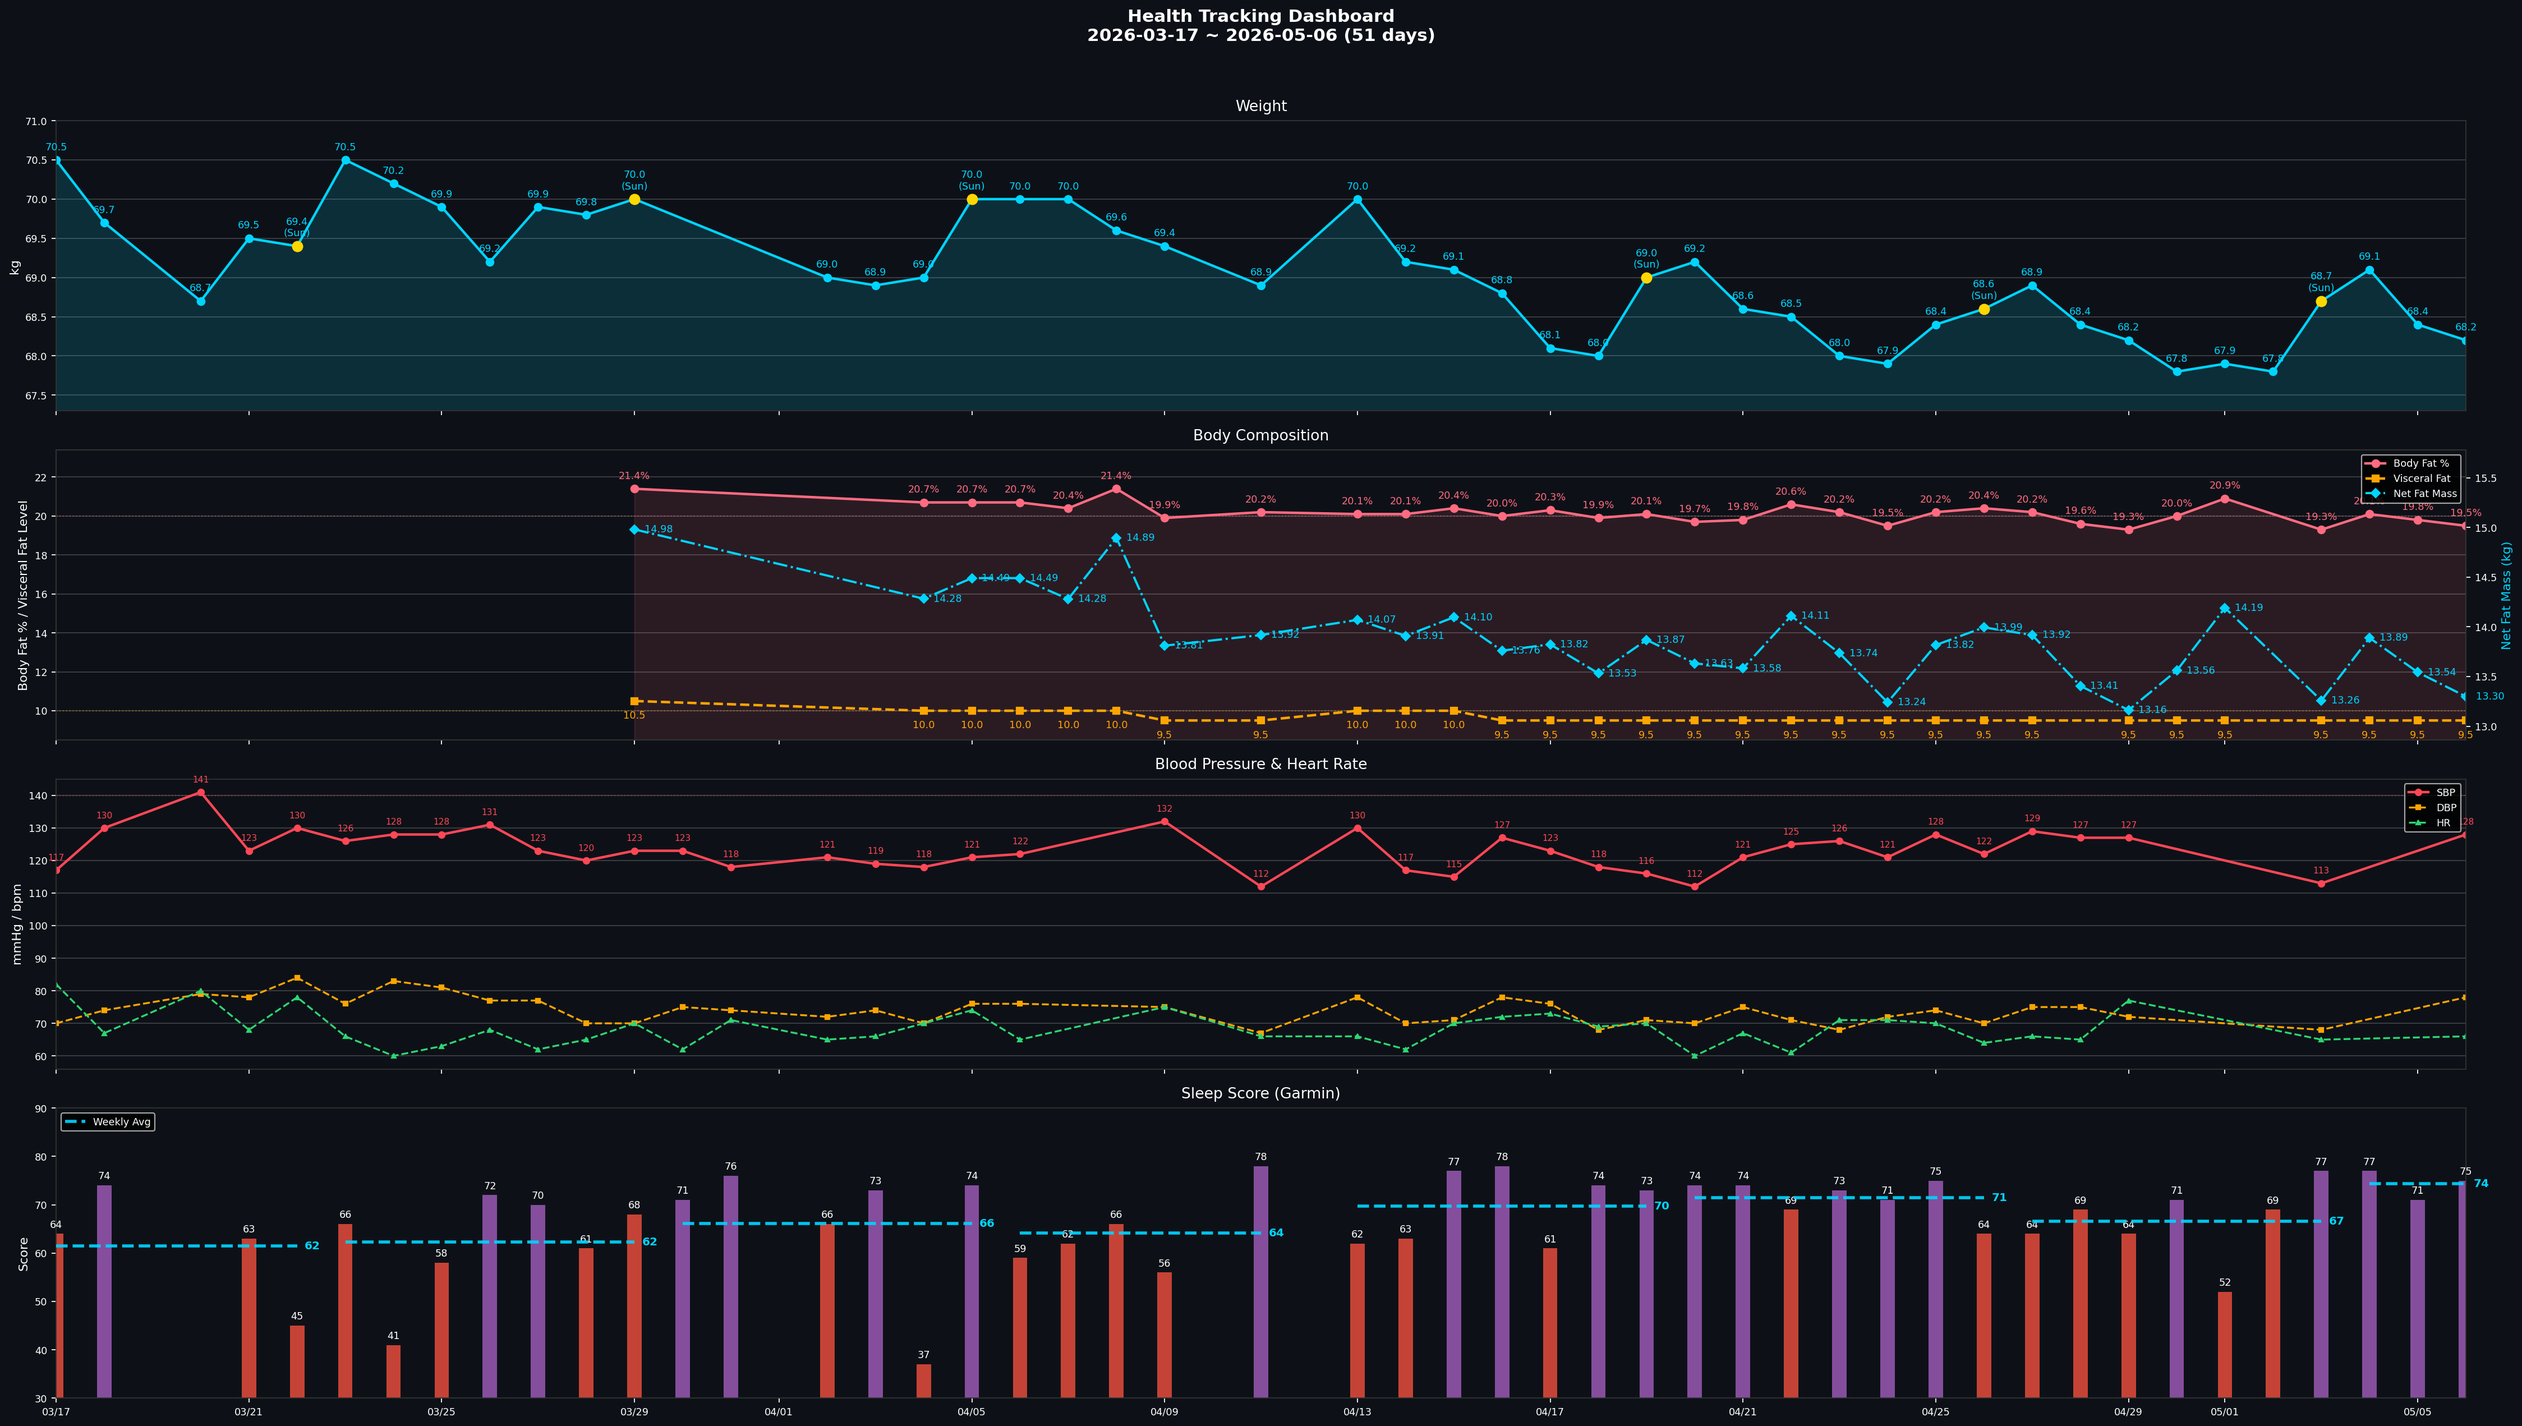
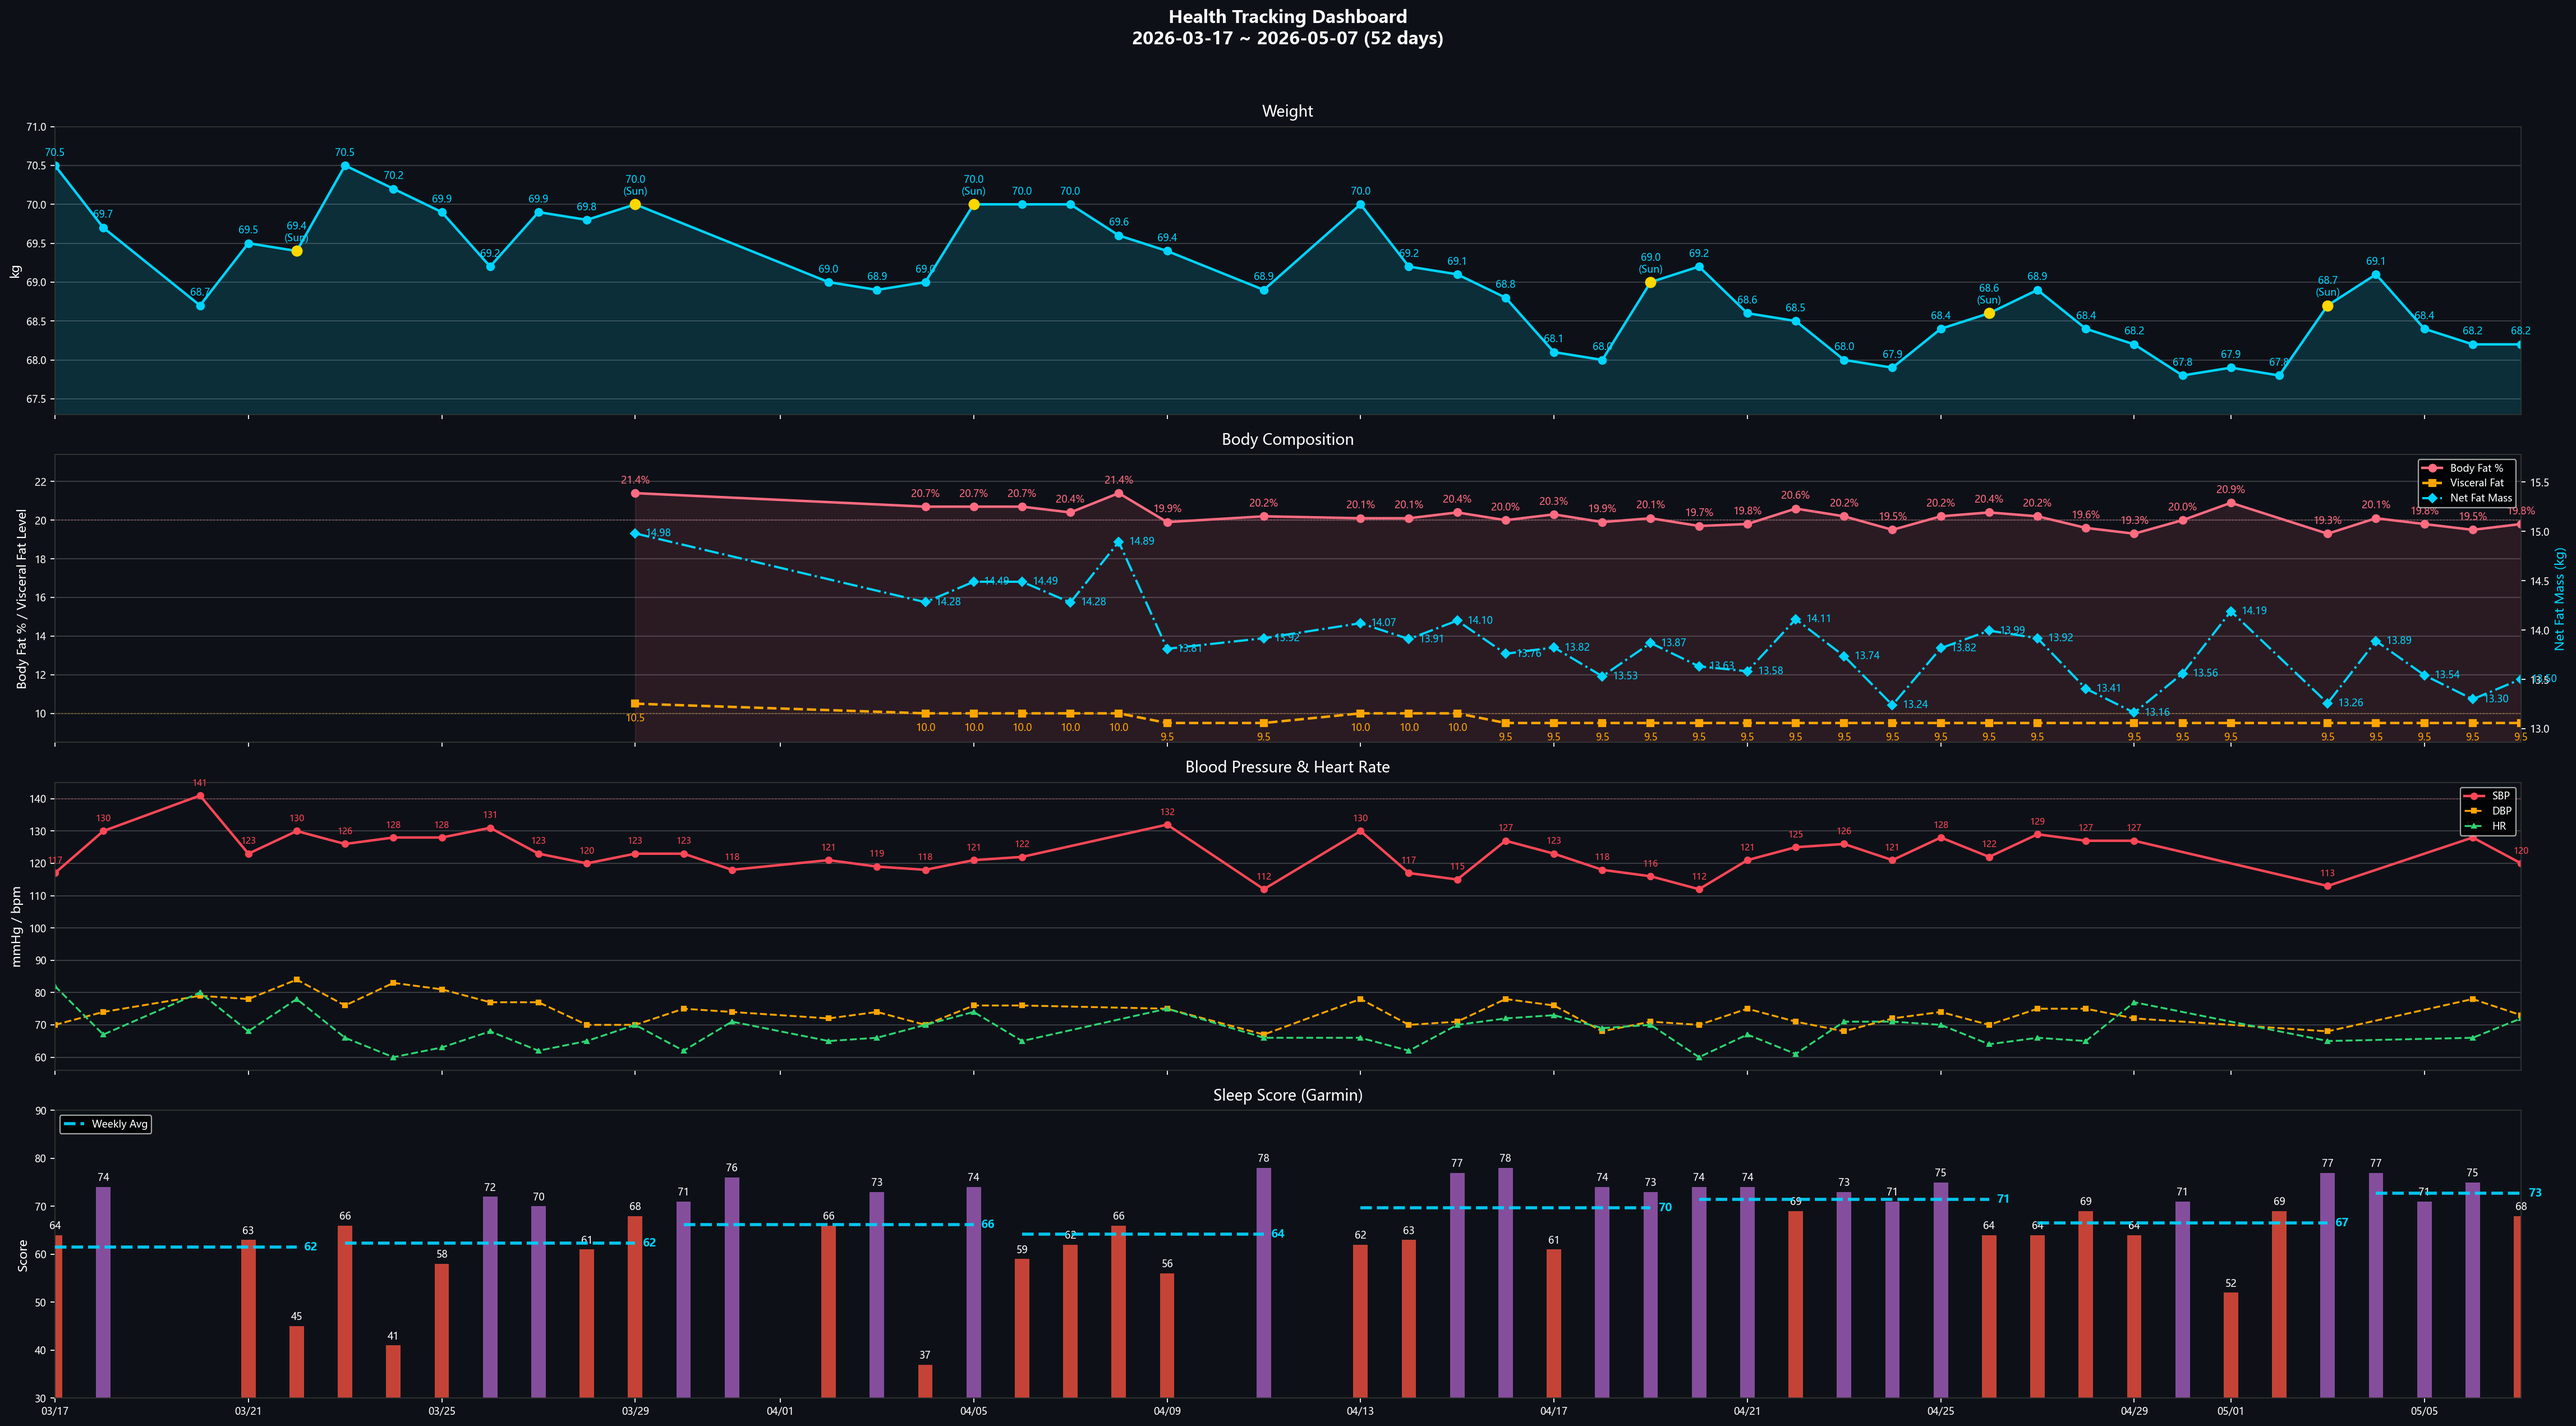
daily 2026-05-07：BP 120/73 / Sleep Score 68 / SpO2 nadir 79%（近 7 晚最低）
- 體重 68.2 kg（同昨）/ 體脂 19.8% / 內臟脂肪 9.5
- 睡眠 5h35m（23:04-04:50）/ 中途醒 0 / 主觀 3
- SpO2 7 晚連續 < 88%（17/17 晚 100%），今晨 T90 2.9% 屬「肺功能類」非 POSA 重度
- POSA Night 3：T90 4.9→2.9% 續降至「強烈 POSA」深區，nadir 79% 為單點 3 分非累積負擔
- 身體信號：左肩 3/10 連 2 天輕度（→ 觀察）
- 昨日飲水 2.85L 達標
- daily-command.md：補上系統時鐘 +8hr 校正規則

diff --git a/data.js b/data.js
@@ -9,8 +9,8 @@ window.HC_DATA = {
     lede:    { en: "Sleep, BP, lipids, uric acid — one shared metabolic root. Lifestyle stacks first; medication only after lifestyle plateaus.",
                zh: "睡眠、血壓、血脂、尿酸——共享同一個代謝根源。生活方式介入優先，等到效果平台期再考慮藥物。" },
     progressLbl: { en: "Weight progress · 70 → 65 kg", zh: "體重進度 · 70 → 65 公斤" },
-    progressMeta: { en: "Day 51 · 67.8 kg · Sat official (5/2)", zh: "第 51 天 · 67.8 公斤 · 週六正式（5/2）" },
-    startDate: { en: "Start date · Mar 17, 2026 · Last sync 5/6", zh: "起始日期 · 2026 年 3 月 17 日 · 最後同步 5/6" },
+    progressMeta: { en: "Day 52 · 67.8 kg · Sat official (5/2)", zh: "第 52 天 · 67.8 公斤 · 週六正式（5/2）" },
+    startDate: { en: "Start date · Mar 17, 2026 · Last sync 5/7", zh: "起始日期 · 2026 年 3 月 17 日 · 最後同步 5/7" },
     startWeight: 70,
     targetWeight: 65,
     currentWeight: 67.8,
@@ -21,13 +21,13 @@ window.HC_DATA = {
     {
       sys: "heart", name: { en: "Blood Pressure", zh: "血壓" },
       val: "124/72", unit: "mmHg",
-      delta: { en: "W18 weekly avg (4 days) · target met (<130) · last 128/78 (5/6)", zh: "W18 週均（4 天）· 已達標 (<130) · 最新 128/78 (5/6)" },
+      delta: { en: "W18 weekly avg (4 days) · target met (<130) · last 120/73 (5/7)", zh: "W18 週均（4 天）· 已達標 (<130) · 最新 120/73 (5/7)" },
       cadence: { en: "Daily · weekly avg", zh: "每日 · 週均" },
       status: "ok",
     },
     {
       sys: "sleep", name: { en: "Sleep Score", zh: "睡眠分數" },
-      val: "75", unit: "Garmin",
+      val: "68", unit: "Garmin",
       delta: { en: "5/4 · OSA flag: T90 18.4% (severe)", zh: "5/4 · OSA 紅旗：T90 18.4%（重度）" },
       cadence: { en: "Daily · Garmin", zh: "每日 · Garmin" },
       status: "warn",
@@ -820,14 +820,14 @@ window.HC_DATA = {
   tracker: {
     // [SBP, DBP] — gaps filled with prior reading
     bp: [
-      [126,68], [121,72], [128,74], [122,70], [129,75], [127,75], [127,72], [127,72], [127,72], [127,72], [113,68], [113,68], [113,68], [128,78],
+      [121,72], [128,74], [122,70], [129,75], [127,75], [127,72], [127,72], [127,72], [127,72], [113,68], [113,68], [113,68], [128,78], [120,73],
     ],
     // 4/21–5/4 daily weight (kg)
-    weight: [68, 67.9, 68.4, 68.6, 68.9, 68.4, 68.2, 67.8, 67.9, 67.8, 68.7, 69.1, 68.4, 68.2],
+    weight: [67.9, 68.4, 68.6, 68.9, 68.4, 68.2, 67.8, 67.9, 67.8, 68.7, 69.1, 68.4, 68.2, 68.2],
     // Garmin Sleep Score
-    sleep:  [73, 71, 75, 64, 64, 69, 64, 71, 52, 69, 77, 77, 71, 75],
+    sleep:  [71, 75, 64, 64, 69, 64, 71, 52, 69, 77, 77, 71, 75, 68],
     // Body Battery waking
-    bb:     [59, 34, 66, 60, 57, 57, 58, 51, 47, 41, 54, 49, 47, 56],
+    bb:     [34, 66, 60, 57, 57, 58, 51, 47, 41, 54, 49, 47, 56, 47],
   },
 
   // ===== Running — started 2026-04-26 =====

diff --git a/reviews/daily/2026-05-07.md b/reviews/daily/2026-05-07.md
@@ -1,0 +1,84 @@
+# 晨間健康紀錄 — 2026-05-07
+
+*3 分鐘。起床後立即完成。記錄，不分析。*
+
+---
+
+## 體重
+
+**今日：68.2 kg**
+**體脂率：19.8 %**
+**內臟脂肪等級：9.5**
+
+*每週六早晨為正式紀錄（排尿後、進食前；連 5 個工作日後、週末大餐前的真實低點）。其他日可選填。*
+
+---
+
+## 血壓（晨間）
+
+*起床後 1 小時內，上完廁所、進食前。坐下安靜 5 分鐘，連量兩次取第二次。*
+
+| 次數 | 收縮壓 | 舒張壓 | 心率 |
+|------|--------|--------|------|
+| 第一次 | — | — | — |
+| 第二次 | 120 | 73 | 72 |
+
+---
+
+## 睡眠狀態
+
+**實際就寢：** 23:04
+**實際起床：** 04:50
+**中途醒來：** 無
+**Garmin Sleep Score：** 68 / 100
+**Garmin Body Battery 起床值：** 47
+**主觀恢復感：** 3 / 5（1=極度疲憊, 5=精力充沛）
+
+### SpO2 夜間最低（7 晚趨勢）
+
+| 日期 | -6 | -5 | -4 | -3 | -2 | -1 | 今晨 |
+|------|----|----|----|----|----|----|------|
+| 日期 | 05-01 | 05-02 | 05-03 | 05-04 | 05-05 | 05-06 | 05-07 |
+| 最低 % | 84 | 84 | 85 | 80 | 86 | 84 | 79 |
+
+**今晨日均 SpO2：** 97%
+**< 88% 連續晚數：** 7（OSA 紅旗門檻：連 3 晚 < 88% → 強烈建議 PSG）
+
+**今晨 epoch-level 統計：** T90 ≈ 2.9%｜nadir 79%（近 7 晚最低）｜events 累積 10 分（max 3 分、min 1 分）
+
+**SpO2 全夜圖：** [spo2/spo2_desat_2026-05-07.png](spo2/spo2_desat_2026-05-07.png)
+**SpO2 趨勢圖：** [spo2/spo2_desat_trend.png](spo2/spo2_desat_trend.png)
+**SpO2 多晚 Overlay（5/1 ~ 5/7）：** [spo2/spo2_overlay_2026-05-01_to_2026-05-07_elapsed.png](spo2/spo2_overlay_2026-05-01_to_2026-05-07_elapsed.png)
+
+*Sleep Score < 65 或 Body Battery < 50 連續三天 → 重新檢視睡眠修復方案。*
+
+---
+
+## 昨日回顧
+
+**實際飲水量：** 2.85 L（目標 ≥ 2.5L；高尿酸最佳 2.8–3.0L；17:00 前完成 60-70%）✅ 達標
+
+---
+
+## 身體信號
+
+*任何張力、疼痛、疲勞、異常 — 或「清」。記位置、性質、強度。*
+
+| 部位 | 性質 | 強度 (0-10) |
+|------|------|-------------|
+| 左肩 | — | 3 |
+
+---
+
+## 今日計畫速記
+
+- [ ] 飲水目標：2.5 L（建議 2.5–3.0L，17:00 前完成主要量）
+- [ ] 補充品：洛神花茶 ×2 杯 + 魚油 ×2 + Vit D3K2 3000 IU + 酸櫻桃 500 mg + 鎂 400 mg + L-Citrulline 2 g + Psyllium husk 5 g ×2（鎂睡前 1-2 hr；D3K2 / Citrulline 晨間隨脂肪餐；Psyllium 午/晚餐前 30 min）
+- [ ] 運動：依當日安排
+- [ ] 活動度/伸展：依當日安排
+
+---
+
+💡 **PT 建議**：今晨 SpO2 nadir 79% 為近 7 晚最低（前低 5/4 80%），雖 T90 2.9% / 最長 event 僅 3 分屬「肺功能類」非 POSA 重度，但連 7 晚 <88% + 17/17 晚 100% 紅旗，PSG 預約應升為本週首要任務。Sleep Score 68 / BB 47 / TST 5h35m 屬恢復一般偏低（BB 連兩日 < 50），今日運動不進階、降級為輕度，今晚 22:30 前就寢。左肩 3/10 連 2 天輕度，先觀察；若明日仍非清則加入肩胛骨 Y-T-W 收放。昨日飲水 2.85L 達標，續維持。
+
+*Filed: reviews/daily/2026-05-07.md*

diff --git a/reviews/weekly/2026-W19.md b/reviews/weekly/2026-W19.md
@@ -31,9 +31,9 @@
 
 |  | 一 | 二 | 三 | 四 | 五 | 六 | 日 |
 |--|----|----|----|----|----|----|-----|
-| 體重 (kg) | 69.1 | 68.4 | 68.2 | | | | |
-| 體脂率 (%) | 20.1 | 19.8 | 19.5 | | | | |
-| 內臟脂肪 | 9.5 | 9.5 | 9.5 | | | | |
+| 體重 (kg) | 69.1 | 68.4 | 68.2 | 68.2 | | | |
+| 體脂率 (%) | 20.1 | 19.8 | 19.5 | 19.8 | | | |
+| 內臟脂肪 | 9.5 | 9.5 | 9.5 | 9.5 | | | |
 
 **本週正式讀數（週六早晨）：** 待 2026-05-09
 **上週正式讀數（週六早晨）：** 待 2026-05-02 補登
@@ -48,7 +48,7 @@
 | 2026-05-04 (一) | N/A | N/A | N/A |
 | 2026-05-05 (二) | N/A | N/A | N/A |
 | 2026-05-06 (三) | 128 | 78 | 66 |
-| 2026-05-07 (四) | | | |
+| 2026-05-07 (四) | 120 | 73 | 72 |
 | 2026-05-08 (五) | | | |
 | 2026-05-09 (六) | | | |
 | 2026-05-10 (日) | | | |
@@ -66,7 +66,7 @@
 | 2026-05-04 (一) | 22:39 | 05:38 | 1 次（N/A） | 77 | 49 | 3 |
 | 2026-05-05 (二) | 23:07 | 05:22 | 0 | 71 | 47 | 4 |
 | 2026-05-06 (三) | 22:28 | 04:55 | 2 次（N/A） | 75 | 56 | 3 |
-| 2026-05-07 (四) | | | | | | |
+| 2026-05-07 (四) | 23:04 | 04:50 | 0 | 68 | 47 | 3 |
 | 2026-05-08 (五) | | | | | | |
 | 2026-05-09 (六) | | | | | | |
 | 2026-05-10 (日) | | | | | | |
@@ -86,7 +86,7 @@
 | 信號（部位+性質） | 出現天數 | 平均強度 | 趨勢（↑↓→） | 備註 |
 |-------------------|----------|----------|-------------|------|
 | 大腿 痠 | 1 | 3.0 | — | 2026-05-04 |
-| 左肩 — | 1 | 3.0 | — | 2026-05-06 |
+| 左肩 — | 2 | 3.0 | → | 2026-05-06, 2026-05-07 |
 
 **反覆出現（≥ 3 天）：** 無
 
@@ -112,6 +112,7 @@
 | 2026-05-04 | 計畫：走路 + 大腿伸展 |
 | 2026-05-05 | 依當日安排 |
 | 2026-05-06 | 依當日安排 |
+| 2026-05-07 | 依當日安排（Sleep Score 68 / BB 47 → 不進階） |
 
 ---
 
@@ -151,7 +152,7 @@
 | 試驗前 baseline | 5/4 | 仰睡（無介入） | ~100% | **18.4%** | **80%** | **20** | 屋馬延遲爆發 |
 | Night 1 | 5/5 | 床頭抬高 + 抱枕 | 待回填 | **9.7%** | **86%** | **16** | T90 18.4→9.7、nadir 80→86、events 20→16，初步反應佳 |
 | Night 2 | 5/6 | 同上（床頭抬高 + 抱枕） | 待回填 | **4.9%** | **84%** | **4** | T90 9.7→4.9、events 16→4，落入「強烈 POSA」(T90 ≤ 5%) |
-| Night 3 | 5/7 | | | | | | |
+| Night 3 | 5/7 | 同上（床頭抬高 + 抱枕） | 待回填 | **2.9%** | **79%** | **~3** | T90 4.9→2.9 續降至「強烈 POSA」深區；nadir 79% 為瞬間單點低（單段最長僅 3 分），非累積負擔 |
 | Night 4 | 5/8 | | | | | | |
 | **平均（N1-N4）** | | | | | | | **vs baseline 7-10%** |
 

diff --git a/templates/daily-command.md b/templates/daily-command.md
@@ -1,6 +1,6 @@
 開始今天的晨間健康紀錄。
 
-1. **確認日期**：執行 `TZ=Asia/Taipei date '+%Y-%m-%d %A %H:%M'` 取得當前台灣時間，向使用者確認日期與星期是否正確，確認後再進行下一步
+1. **確認日期**：執行 `TZ=Asia/Taipei date '+%Y-%m-%d %A %H:%M'` 取得系統時間，**自動 +8 小時**（此環境系統時鐘長期慢 8 小時，TZ flag 無效）後即為當前台灣時間。校正後若與使用者口頭告知或 context `currentDate` 一致則直接採用，無需再向使用者確認；不一致時才追問
 2. **抓取昨夜 Garmin 資料**：Garmin `calendarDate` 以「起床日」歸檔，故昨夜睡眠 → calendarDate = 今日。
    - 先執行 `python scripts/sync_garmin_daily.py`（預設抓今日，即昨夜睡眠 + 今晨 SpO2）
    - 再執行 `python scripts/sync_garmin_daily.py --days-back 1`（抓昨日，取得昨日全日飲水、步數等 day-level 總量供「昨日回顧」區塊）

diff --git a/reports/daily-garmin/2026-05-06.md b/reports/daily-garmin/2026-05-06.md
@@ -1,27 +1,20 @@
 # Garmin 每日摘要 — 2026-05-06
 
-## 睡眠
-- 就寢：22:28｜起床：04:55
-- 總時長：6h 12m
-- 深眠：77 分｜REM：86 分
-- Sleep Score：75
-- Body Battery 起床值：56
-
 ## 靜息心率
 - RHR：61.0 bpm
 
 ## 壓力
-- 日均：25
+- 日均：31
 
 ## 步數
-- 總計：2,990
+- 總計：8,213
 
 ## SpO2
 - 日均：96.0%
 - 最低：84%
 
 ## 飲水
-- 實際：0.00 L
+- 實際：2.85 L
 - 目標：2.07 L
 - 運動流汗耗水：0.07 L
 

diff --git a/reports/daily-garmin/2026-05-07.md b/reports/daily-garmin/2026-05-07.md
@@ -1,0 +1,24 @@
+# Garmin 每日摘要 — 2026-05-07
+
+## 睡眠
+- 就寢：23:04｜起床：04:50
+- 總時長：5h 35m
+- 深眠：54 分｜REM：58 分
+- Sleep Score：68
+- Body Battery 起床值：47
+
+## 靜息心率
+- RHR：58.0 bpm
+
+## 步數
+- 總計：39
+
+## SpO2
+- 日均：97.0%
+- 最低：79%
+
+## 飲水
+- 實際：— （Garmin Connect 未紀錄，請於 check-in 手動輸入）
+- 目標：2.00 L
+
+_Source: data/garmin/2026-05-07.json (gitignored)_
